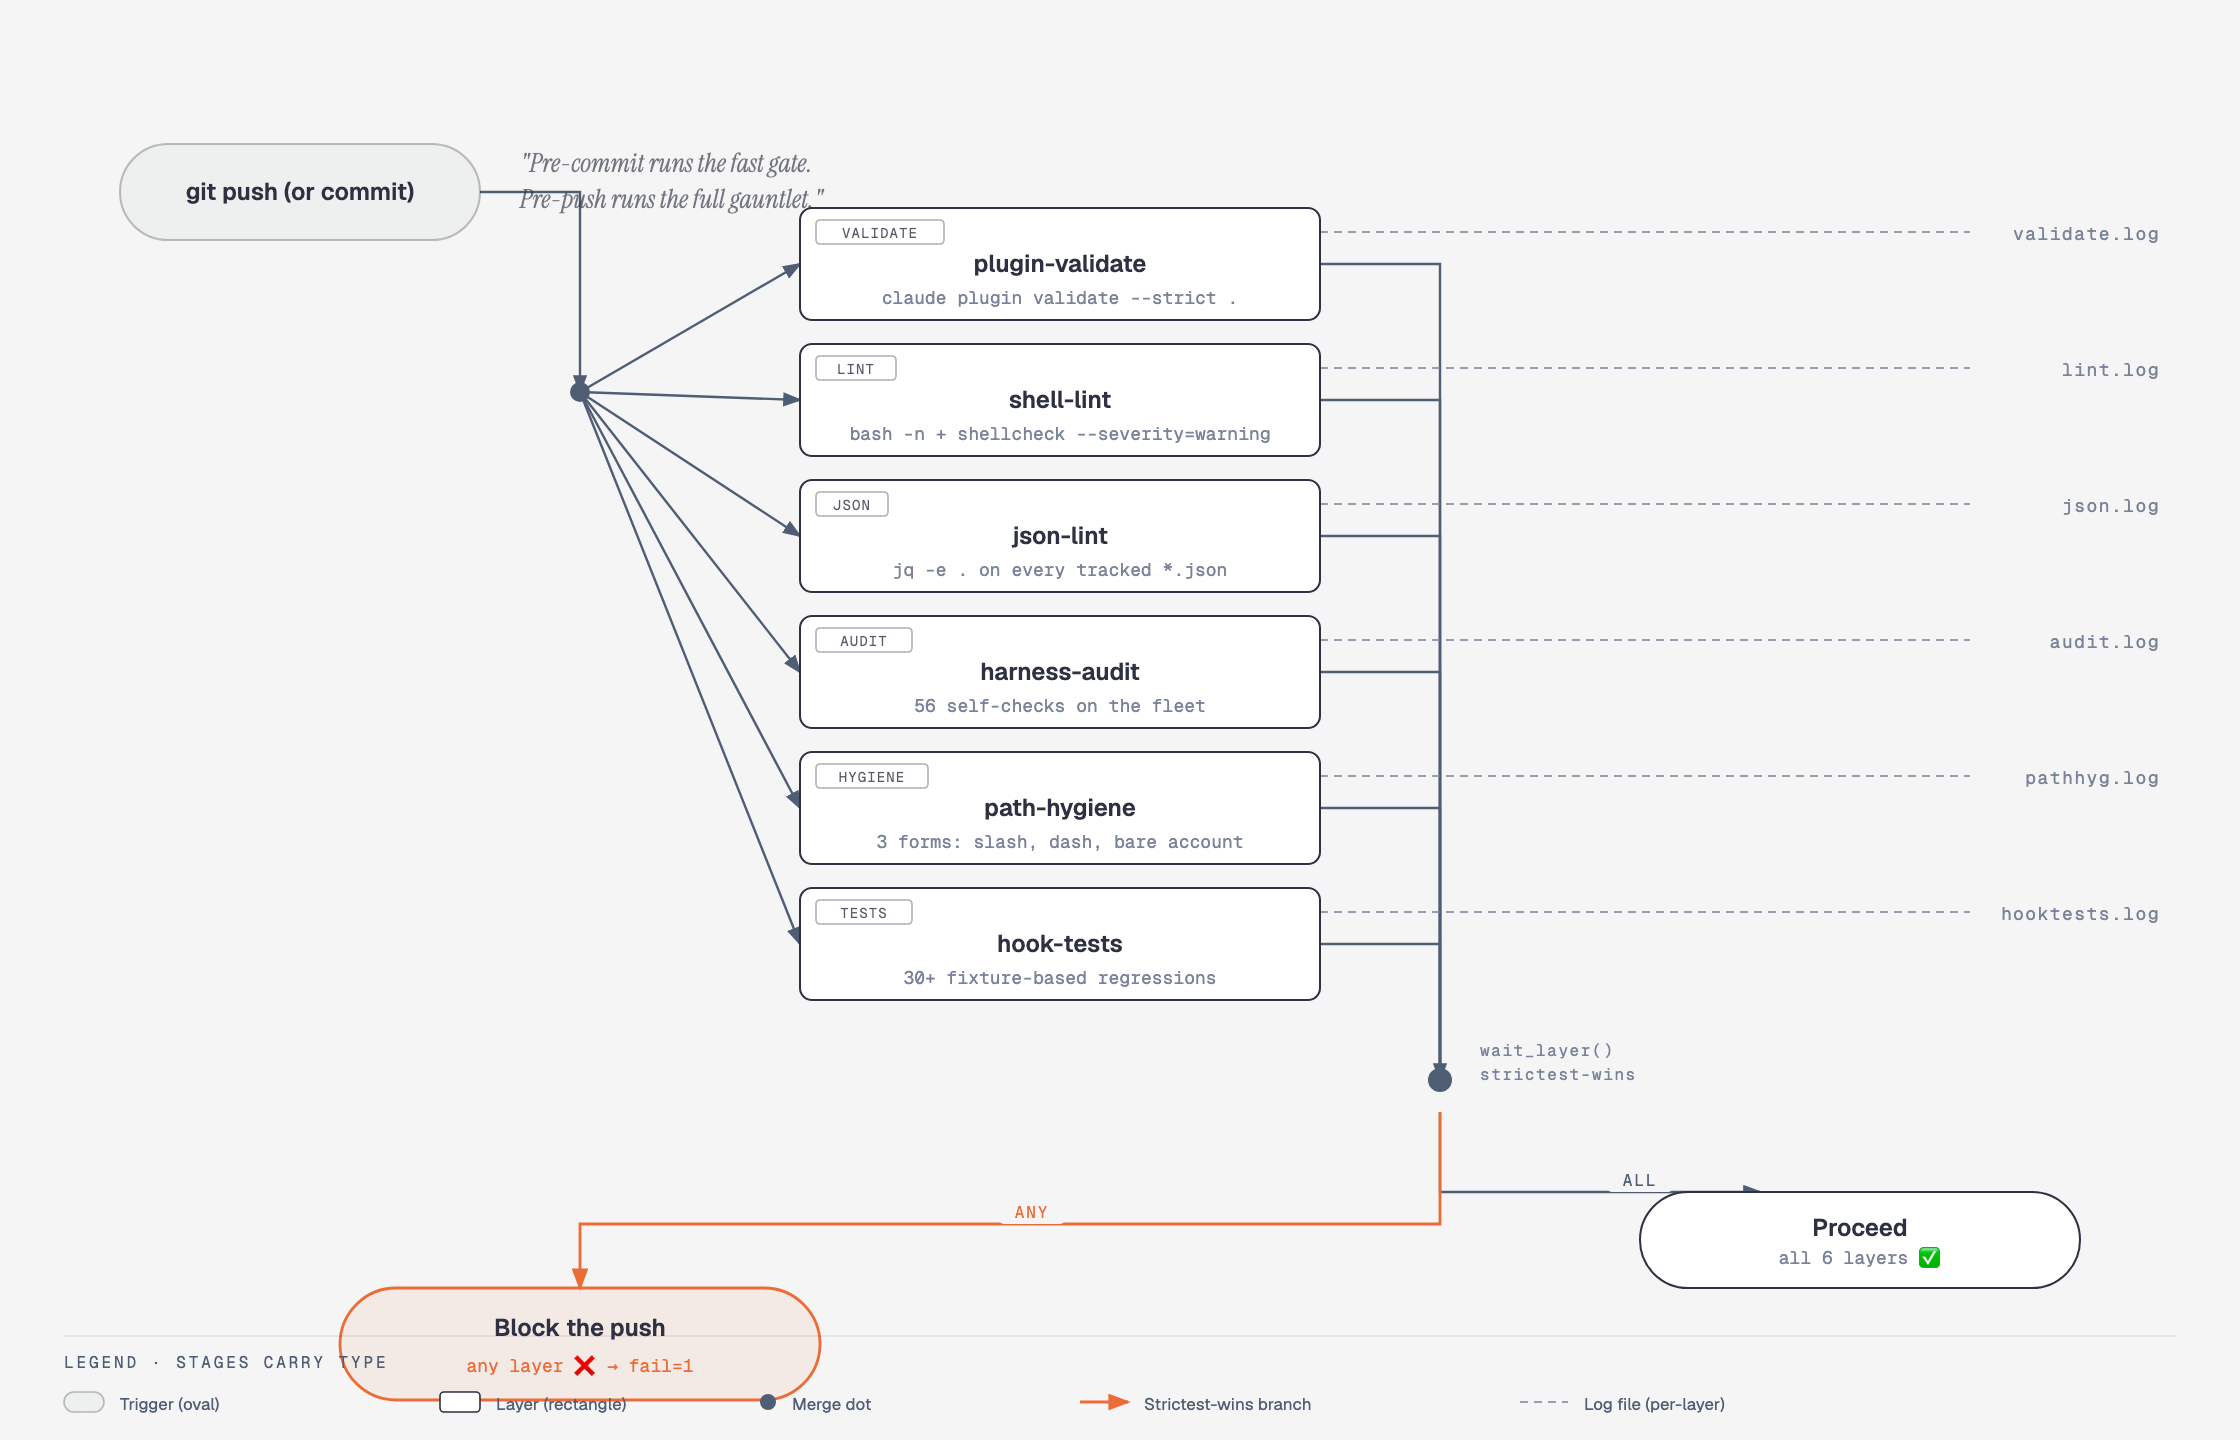
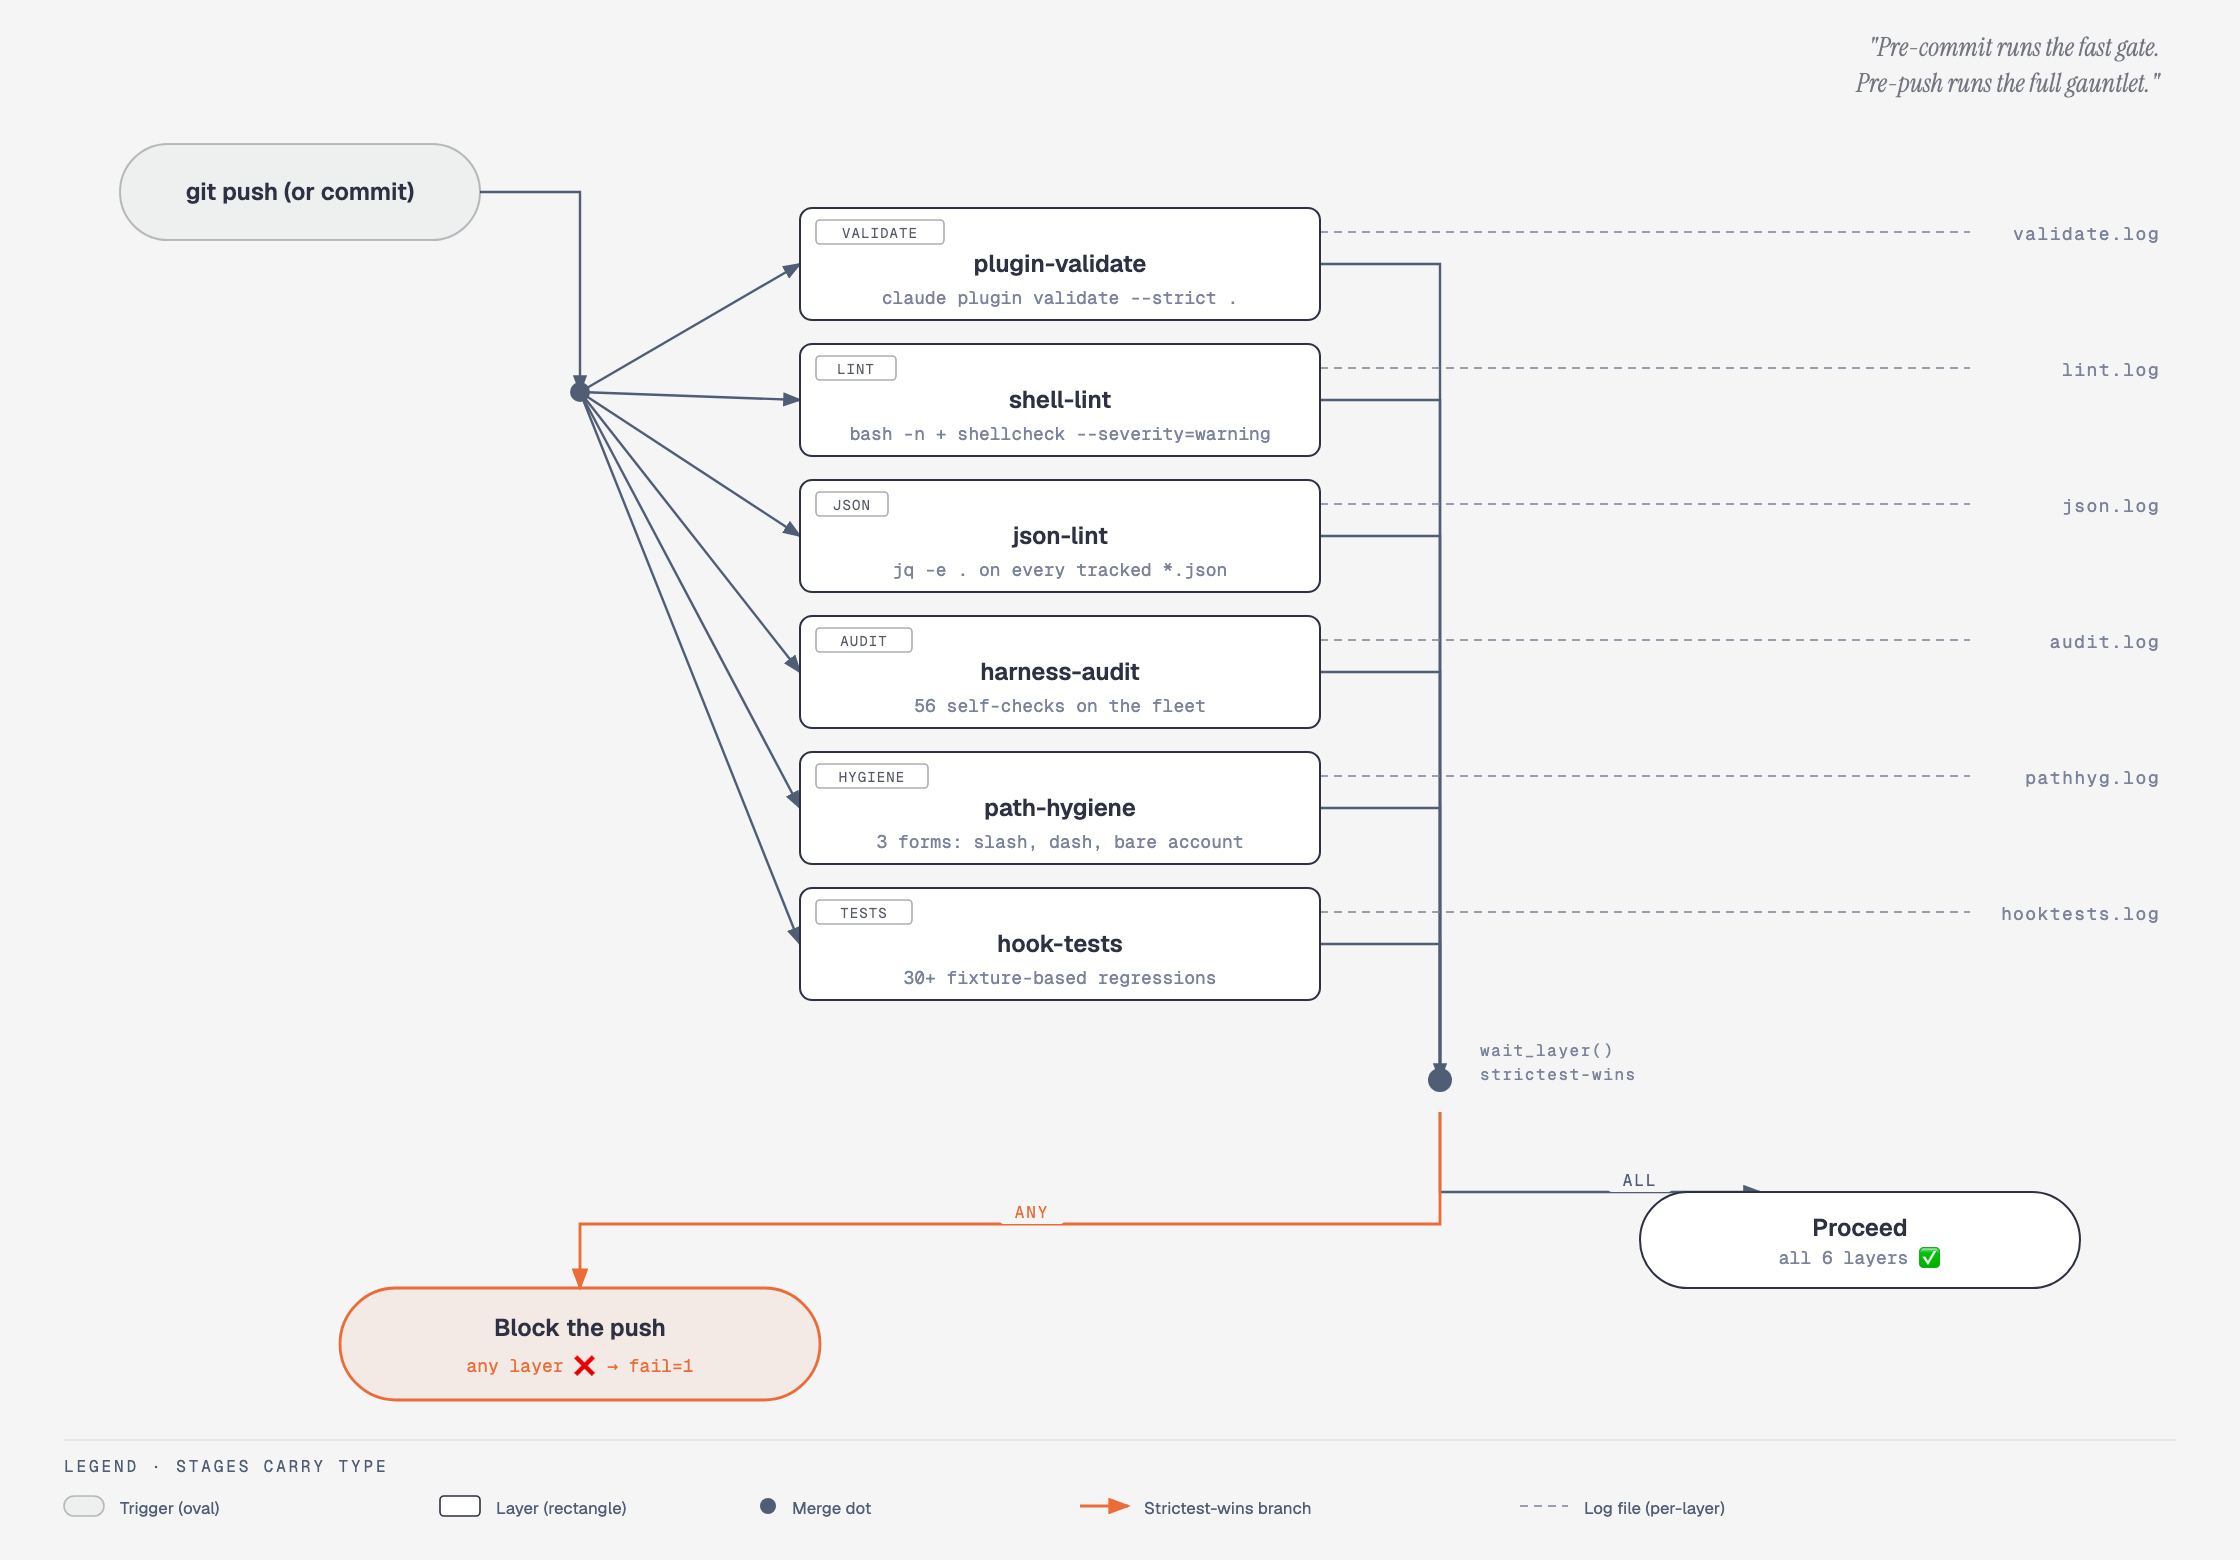
fix(diagram): close 4 more connector/overlap defects found on re-audit, v0.68.530
Prompted by a direct challenge to an "all clean" verdict from self_check.py +
verify-geometry.py + a custom connector checker. Those tools stayed clean;
none of these 4 were mechanically detectable — found only by a full-resolution,
whole-diagram visual sweep in a live-rendered browser (Playwright), pixel-crop
confirmed against source coordinates:

- mh-validation-chain.html: the Fixer->Re-validator GATE annotation box (height
  32) overlapped the M7 arrow-label's mask rect by 4px, biting a notch out of
  the dashed border. Shrunk to height 24, text repositioned; M7's own arrow
  (y=616) is unchanged — load-bearing, matches the Re-validator activation
  bar's top edge.
- mh-gauntlet-pipeline.html: the "Pre-commit runs the fast gate..." editorial
  aside collided with a pipeline node. Moved to top-right (x=1080 anchor-end,
  y=28/46). Legend block collided with the rightmost endpoint box below it —
  viewBox expanded 720->780, legend shifted down 52px (divider, label, all 4
  swatches). Also fixed a self-inflicted XML well-formedness bug: a literal
  `--` inside my own new comment, illegal in an XML comment body.
- hero-diagram.html: two card sublabels ("triad · reasoning scaffold",
  "ops model · verifier crux") overflowed their 180px card boxes into
  neighboring cards. Shortened both. Also fixed missing `xmlns` on the root
  <svg> (blocked standalone SVG/PNG export) and made the scratch export
  script's Google-Fonts-link step conditional (this promo variant has none).
[…]

diff --git a/docs/diagrams/mh-gauntlet-pipeline.html b/docs/diagrams/mh-gauntlet-pipeline.html
@@ -33,7 +33,7 @@
   <h1>Six layers run in parallel, one verdict wins</h1>
   <p class="subtitle">Each layer is a deterministic verifier with its own log. They fork concurrently and merge strictest-wins via `wait_layer`: any single ❌ sets `fail=1` and the push is blocked. The pre-commit hook runs a strict subset of the same machinery faster; the gauntlet is the full pre-push net.</p>
 
-  <svg class="diagram" viewBox="0 0 1120 720" role="img" aria-labelledby="mh-gauntlet-title mh-gauntlet-desc" xmlns="http://www.w3.org/2000/svg">
+  <svg class="diagram" viewBox="0 0 1120 780" role="img" aria-labelledby="mh-gauntlet-title mh-gauntlet-desc" xmlns="http://www.w3.org/2000/svg">
     <title id="mh-gauntlet-title">mh@wasikarn gauntlet pipeline: one trigger fans out to six parallel verification layers that merge strictest-wins.</title>
     <desc id="mh-gauntlet-desc">Process diagram. A trigger node (pre-commit hook for fast checks, pre-push for full gauntlet) forks into six parallel verification layers stacked vertically: plugin-validate, shell-lint, json-lint, harness-audit, path-hygiene, hook-tests. Each layer writes its own log. A merge funnel collects verdicts via wait_layer; any single failure sets fail=1 and the action is blocked. Two endpoints: proceed (right, white) or block (left, coral focal).</desc>
 
@@ -50,7 +50,7 @@
     </defs>
 
     <!-- background -->
-    <rect width="1120" height="720" fill="#f5f5f5"/>
+    <rect width="1120" height="780" fill="#f5f5f5"/>
 
     <!-- ===== ARROWS (drawn first, behind nodes) ===== -->
     <!-- Trigger → fanout (right then down) -->
@@ -96,10 +96,14 @@
     <rect x="60" y="72" width="180" height="48" rx="24" fill="rgba(45,49,66,0.03)" stroke="rgba(45,49,66,0.30)" stroke-width="1"/>
     <text x="150" y="100" fill="#2d3142" font-size="12" font-weight="600" font-family="'Geist', sans-serif" text-anchor="middle">git push (or commit)</text>
 
-    <!-- Editorial aside (right of trigger) -->
+    <!-- Editorial aside (top-right, clear of every node — matches mh-decision-triad
+         and mh-tiered-pipeline's placement. Previously sat inline at x=260,y=86/104,
+         right where the plugin-validate box starts (x=400,y=104): the second line's
+         baseline landed exactly on the box's top edge and its width ran into the
+         box's left portion. -->
     <g font-family="'Instrument Serif', serif" font-style="italic" fill="rgba(45,49,66,0.65)">
-      <text x="260" y="86" font-size="13">"Pre-commit runs the fast gate.</text>
-      <text x="260" y="104" font-size="13">Pre-push runs the full gauntlet."</text>
+      <text x="1080" y="28" font-size="13" text-anchor="end">"Pre-commit runs the fast gate.</text>
+      <text x="1080" y="46" font-size="13" text-anchor="end">Pre-push runs the full gauntlet."</text>
     </g>
 
     <!-- Fanout dot -->
@@ -191,23 +195,26 @@
     <text x="290" y="686" fill="#eb6c36" font-size="9" font-family="'Geist Mono', monospace" text-anchor="middle">any layer ❌ → fail=1</text>
 
     <!-- ===== LEGEND ===== -->
-    <line x1="32" y1="668" x2="1088" y2="668" stroke="rgba(45,49,66,0.10)" stroke-width="0.8"/>
-    <text x="32" y="684" fill="#4f5d75" font-size="8" font-family="'Geist Mono', monospace" letter-spacing="0.18em">LEGEND · STAGES CARRY TYPE</text>
+    <!-- Shifted down 52px (668 to 720 for the divider): the Block endpoint box
+         (y644-700) previously overlapped the divider line, the LEGEND label, and
+         2 of the 4 swatches below it. viewBox/background grown 720 to 780 to fit. -->
+    <line x1="32" y1="720" x2="1088" y2="720" stroke="rgba(45,49,66,0.10)" stroke-width="0.8"/>
+    <text x="32" y="736" fill="#4f5d75" font-size="8" font-family="'Geist Mono', monospace" letter-spacing="0.18em">LEGEND · STAGES CARRY TYPE</text>
 
-    <rect x="32" y="696" width="20" height="10" rx="5" fill="rgba(45,49,66,0.03)" stroke="rgba(45,49,66,0.30)" stroke-width="0.8"/>
-    <text x="60" y="705" fill="#4f5d75" font-size="8.5" font-family="'Geist', sans-serif">Trigger (oval)</text>
+    <rect x="32" y="748" width="20" height="10" rx="5" fill="rgba(45,49,66,0.03)" stroke="rgba(45,49,66,0.30)" stroke-width="0.8"/>
+    <text x="60" y="757" fill="#4f5d75" font-size="8.5" font-family="'Geist', sans-serif">Trigger (oval)</text>
 
-    <rect x="220" y="696" width="20" height="10" rx="2" fill="#ffffff" stroke="#2d3142" stroke-width="0.8"/>
-    <text x="248" y="705" fill="#4f5d75" font-size="8.5" font-family="'Geist', sans-serif">Layer (rectangle)</text>
+    <rect x="220" y="748" width="20" height="10" rx="2" fill="#ffffff" stroke="#2d3142" stroke-width="0.8"/>
+    <text x="248" y="757" fill="#4f5d75" font-size="8.5" font-family="'Geist', sans-serif">Layer (rectangle)</text>
 
-    <circle cx="384" cy="701" r="4" fill="#4f5d75"/>
-    <text x="396" y="705" fill="#4f5d75" font-size="8.5" font-family="'Geist', sans-serif">Merge dot</text>
+    <circle cx="384" cy="753" r="4" fill="#4f5d75"/>
+    <text x="396" y="757" fill="#4f5d75" font-size="8.5" font-family="'Geist', sans-serif">Merge dot</text>
 
-    <line x1="540" y1="701" x2="564" y2="701" stroke="#eb6c36" stroke-width="1.4" marker-end="url(#arrow-accent)"/>
-    <text x="572" y="705" fill="#4f5d75" font-size="8.5" font-family="'Geist', sans-serif">Strictest-wins branch</text>
+    <line x1="540" y1="753" x2="564" y2="753" stroke="#eb6c36" stroke-width="1.4" marker-end="url(#arrow-accent)"/>
+    <text x="572" y="757" fill="#4f5d75" font-size="8.5" font-family="'Geist', sans-serif">Strictest-wins branch</text>
 
-    <line x1="760" y1="701" x2="784" y2="701" stroke="#7a8399" stroke-width="0.8" stroke-dasharray="4,3"/>
-    <text x="792" y="705" fill="#4f5d75" font-size="8.5" font-family="'Geist', sans-serif">Log file (per-layer)</text>
+    <line x1="760" y1="753" x2="784" y2="753" stroke="#7a8399" stroke-width="0.8" stroke-dasharray="4,3"/>
+    <text x="792" y="757" fill="#4f5d75" font-size="8.5" font-family="'Geist', sans-serif">Log file (per-layer)</text>
   </svg>
 
   <div class="footer">scripts/run-gauntlet.sh · merge = `wait_layer()` over 6 background PIDs, fail=1 on any exit≠0</div>

diff --git a/docs/diagrams/mh-validation-chain.html b/docs/diagrams/mh-validation-chain.html
@@ -117,10 +117,14 @@
     <rect x="835" y="540" width="100" height="12" rx="2" fill="#f5f5f5"/>
     <text x="885" y="550" fill="#4f5d75" font-size="8" font-family="'Geist Mono', monospace" text-anchor="middle" letter-spacing="0.05em">RETURNS FIX</text>
 
-    <!-- Gate annotation on the Fixer -> Re-validator transition -->
-    <rect x="700" y="572" width="340" height="32" rx="4" fill="rgba(235,108,54,0.05)" stroke="rgba(235,108,54,0.5)" stroke-width="1.2" stroke-dasharray="4,4"/>
-    <text x="712" y="585" fill="rgba(235,108,54,0.9)" font-size="8" font-weight="600" font-family="'Geist Mono', monospace" letter-spacing="0.03em">GATE: task-complete-separation.sh</text>
-    <text x="712" y="598" fill="rgba(235,108,54,0.9)" font-size="8" font-family="'Geist Mono', monospace" letter-spacing="0.02em">blocks Fixer from self-marking A completed</text>
+    <!-- Gate annotation on the Fixer -> Re-validator transition. Height 24 (was 32) —
+         at 32 its bottom edge (604) overlapped the M7 label's mask rect (600-612) by
+         4px, biting a notch out of the dashed border. M7's arrow itself stays at
+         y=616, unchanged — it's load-bearing (matches the Re-validator activation
+         bar's top edge below). -->
+    <rect x="700" y="572" width="340" height="24" rx="4" fill="rgba(235,108,54,0.05)" stroke="rgba(235,108,54,0.5)" stroke-width="1.2" stroke-dasharray="4,4"/>
+    <text x="712" y="582" fill="rgba(235,108,54,0.9)" font-size="8" font-weight="600" font-family="'Geist Mono', monospace" letter-spacing="0.03em">GATE: task-complete-separation.sh</text>
+    <text x="712" y="592" fill="rgba(235,108,54,0.9)" font-size="8" font-family="'Geist Mono', monospace" letter-spacing="0.02em">blocks Fixer from self-marking A completed</text>
 
     <!-- ===== M7: Main -> Re-validator  dispatch D ===== -->
     <line x1="690" y1="616" x2="1230" y2="616" stroke="#2e5aa8" stroke-width="1.2" marker-end="url(#arrow-link)"/>

diff --git a/docs/promo/hero-diagram.html b/docs/promo/hero-diagram.html
@@ -153,11 +153,11 @@
       <g font-family="Geist Mono, ui-monospace, monospace" font-size="11" fill="var(--ink)">
         <rect x="60" y="108" width="180" height="38" rx="4" fill="var(--paper)" stroke="var(--rule)"/>
         <text x="72" y="124">docs/METHODOLOGY.md</text>
-        <text x="72" y="140" font-size="9" fill="var(--soft)">decision triad · reasoning scaffold</text>
+        <text x="72" y="140" font-size="9" fill="var(--soft)">triad · reasoning scaffold</text>
 
         <rect x="260" y="108" width="180" height="38" rx="4" fill="var(--paper)" stroke="var(--rule)"/>
         <text x="272" y="124">CLAUDE.md · Architecture</text>
-        <text x="272" y="140" font-size="9" fill="var(--soft)">operating model · verifier crux</text>
+        <text x="272" y="140" font-size="9" fill="var(--soft)">ops model · verifier crux</text>
 
         <rect x="460" y="108" width="180" height="38" rx="4" fill="var(--paper)" stroke="var(--rule)"/>
         <text x="472" y="124">BOUNDARY.md</text>
